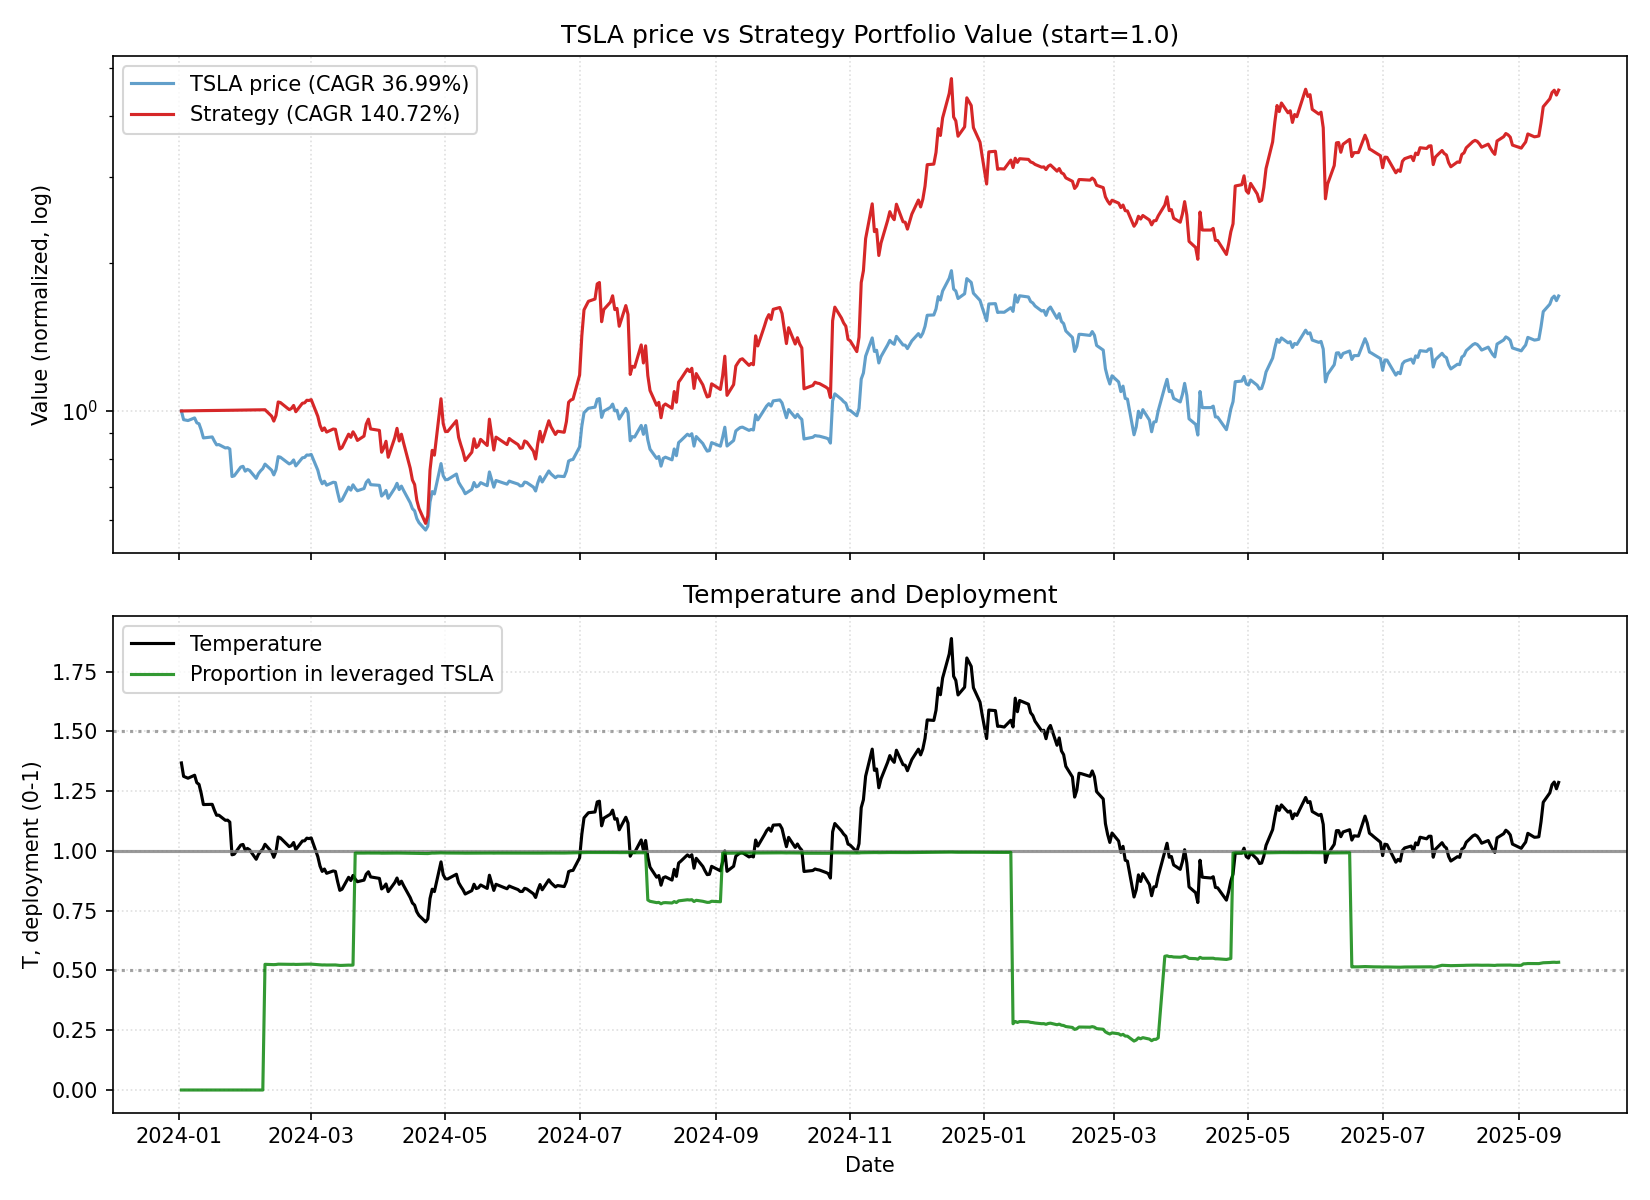
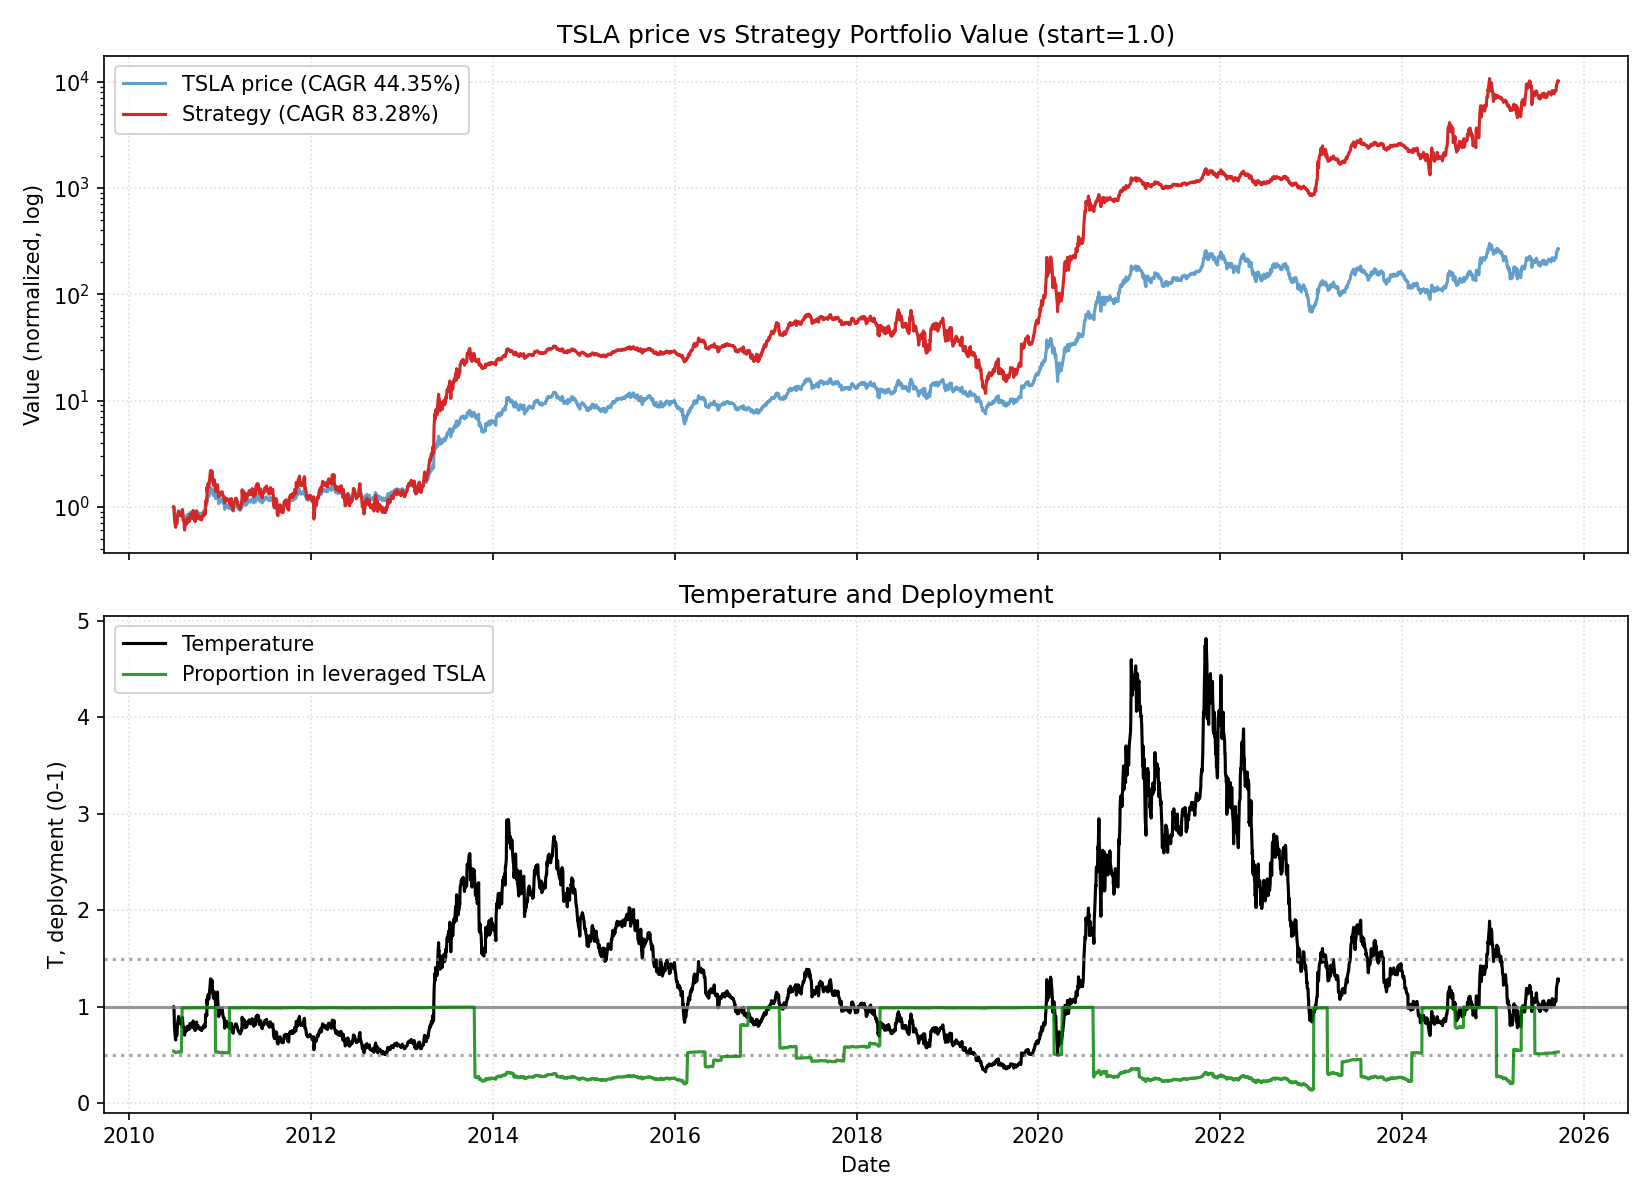
Fix artifact suffix duplication for non-QQQ symbols

diff --git a/strategy_tqqq_reserve.py b/strategy_tqqq_reserve.py
@@ -2624,9 +2624,17 @@ def main():
     def ensure_suffix(root: str, token: str) -> str:
         lower_root = root.lower()
         token_lower = token.lower()
+        # Prevent duplicate suffix when the token already appears at the end (e.g. _TESLA2X_B2)
+        if lower_root.endswith(token_lower):
+            return root
         # Split on common delimiters to identify existing segments
         segments = re.split(r"[_\-.]", lower_root)
         if token_lower in segments:
+            return root
+        # Fall back to compact comparison (strip punctuation) to catch tokens embedded with separators
+        compact_root = re.sub(r"[^a-z0-9]", "", lower_root)
+        compact_token = re.sub(r"[^a-z0-9]", "", token_lower)
+        if compact_token and compact_root.endswith(compact_token):
             return root
         return f"{root}_{token}"
 

diff --git a/symbols/tsla/tsla_TESLA2X_B2_summary.md b/symbols/tsla/tsla_TESLA2X_B2_summary.md
@@ -1,11 +1,11 @@
 # TSLA – Strategy TESLA2X_B2 Summary
 
-- **Span**: 2024-01-02 → 2025-09-19 (1.71 years)
-- **Underlying (TSLA price) CAGR**: 36.99%
+- **Span**: 2010-06-29 → 2025-09-19 (15.23 years)
+- **Underlying (TSLA price) CAGR**: 44.35%
 - **Fitted curve CAGR**: 42.00%
-- **Strategy CAGR**: 140.72%
-- **Max drawdown**: -57.17%
-- **Rebalances executed**: 12
+- **Strategy CAGR**: 83.28%
+- **Max drawdown**: -83.65%
+- **Rebalances executed**: 77
 - **P/E ratio (as of 2025-09-21)**: 256.67
 - **PEG ratio (as of 2025-09-21)**: N/A
 - **Current growth rate (as of 2025-09-21)**: -16.30%
